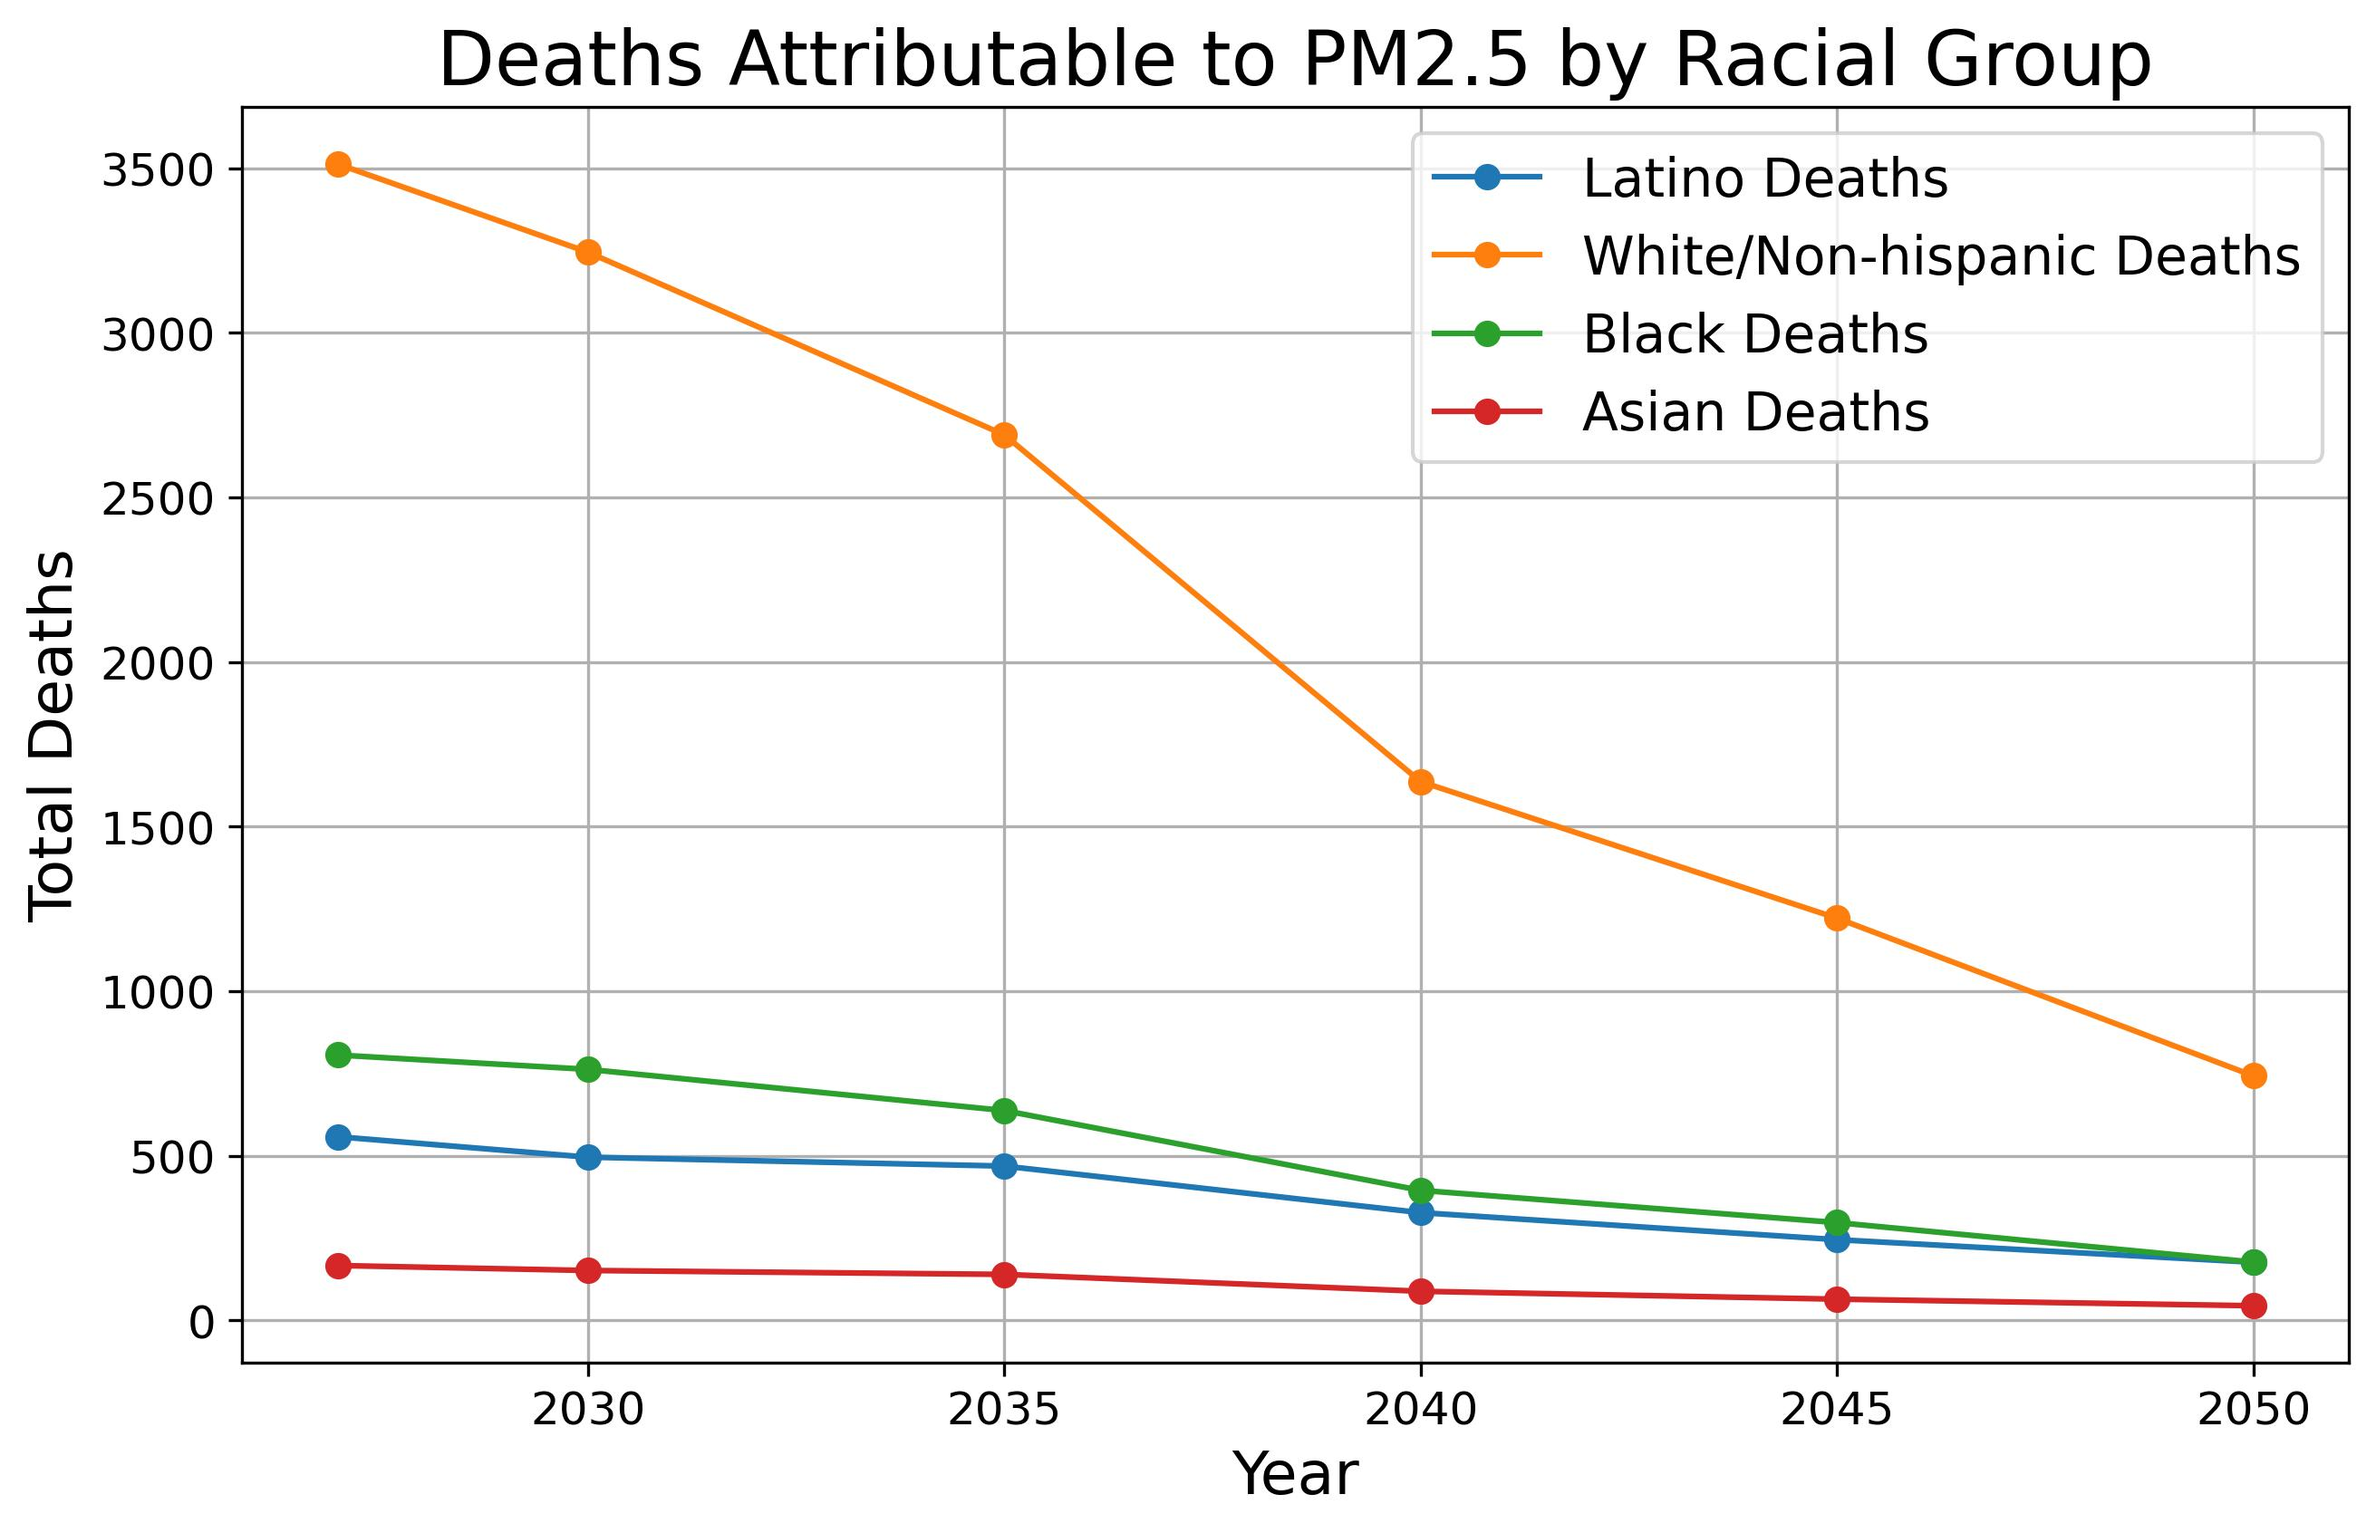
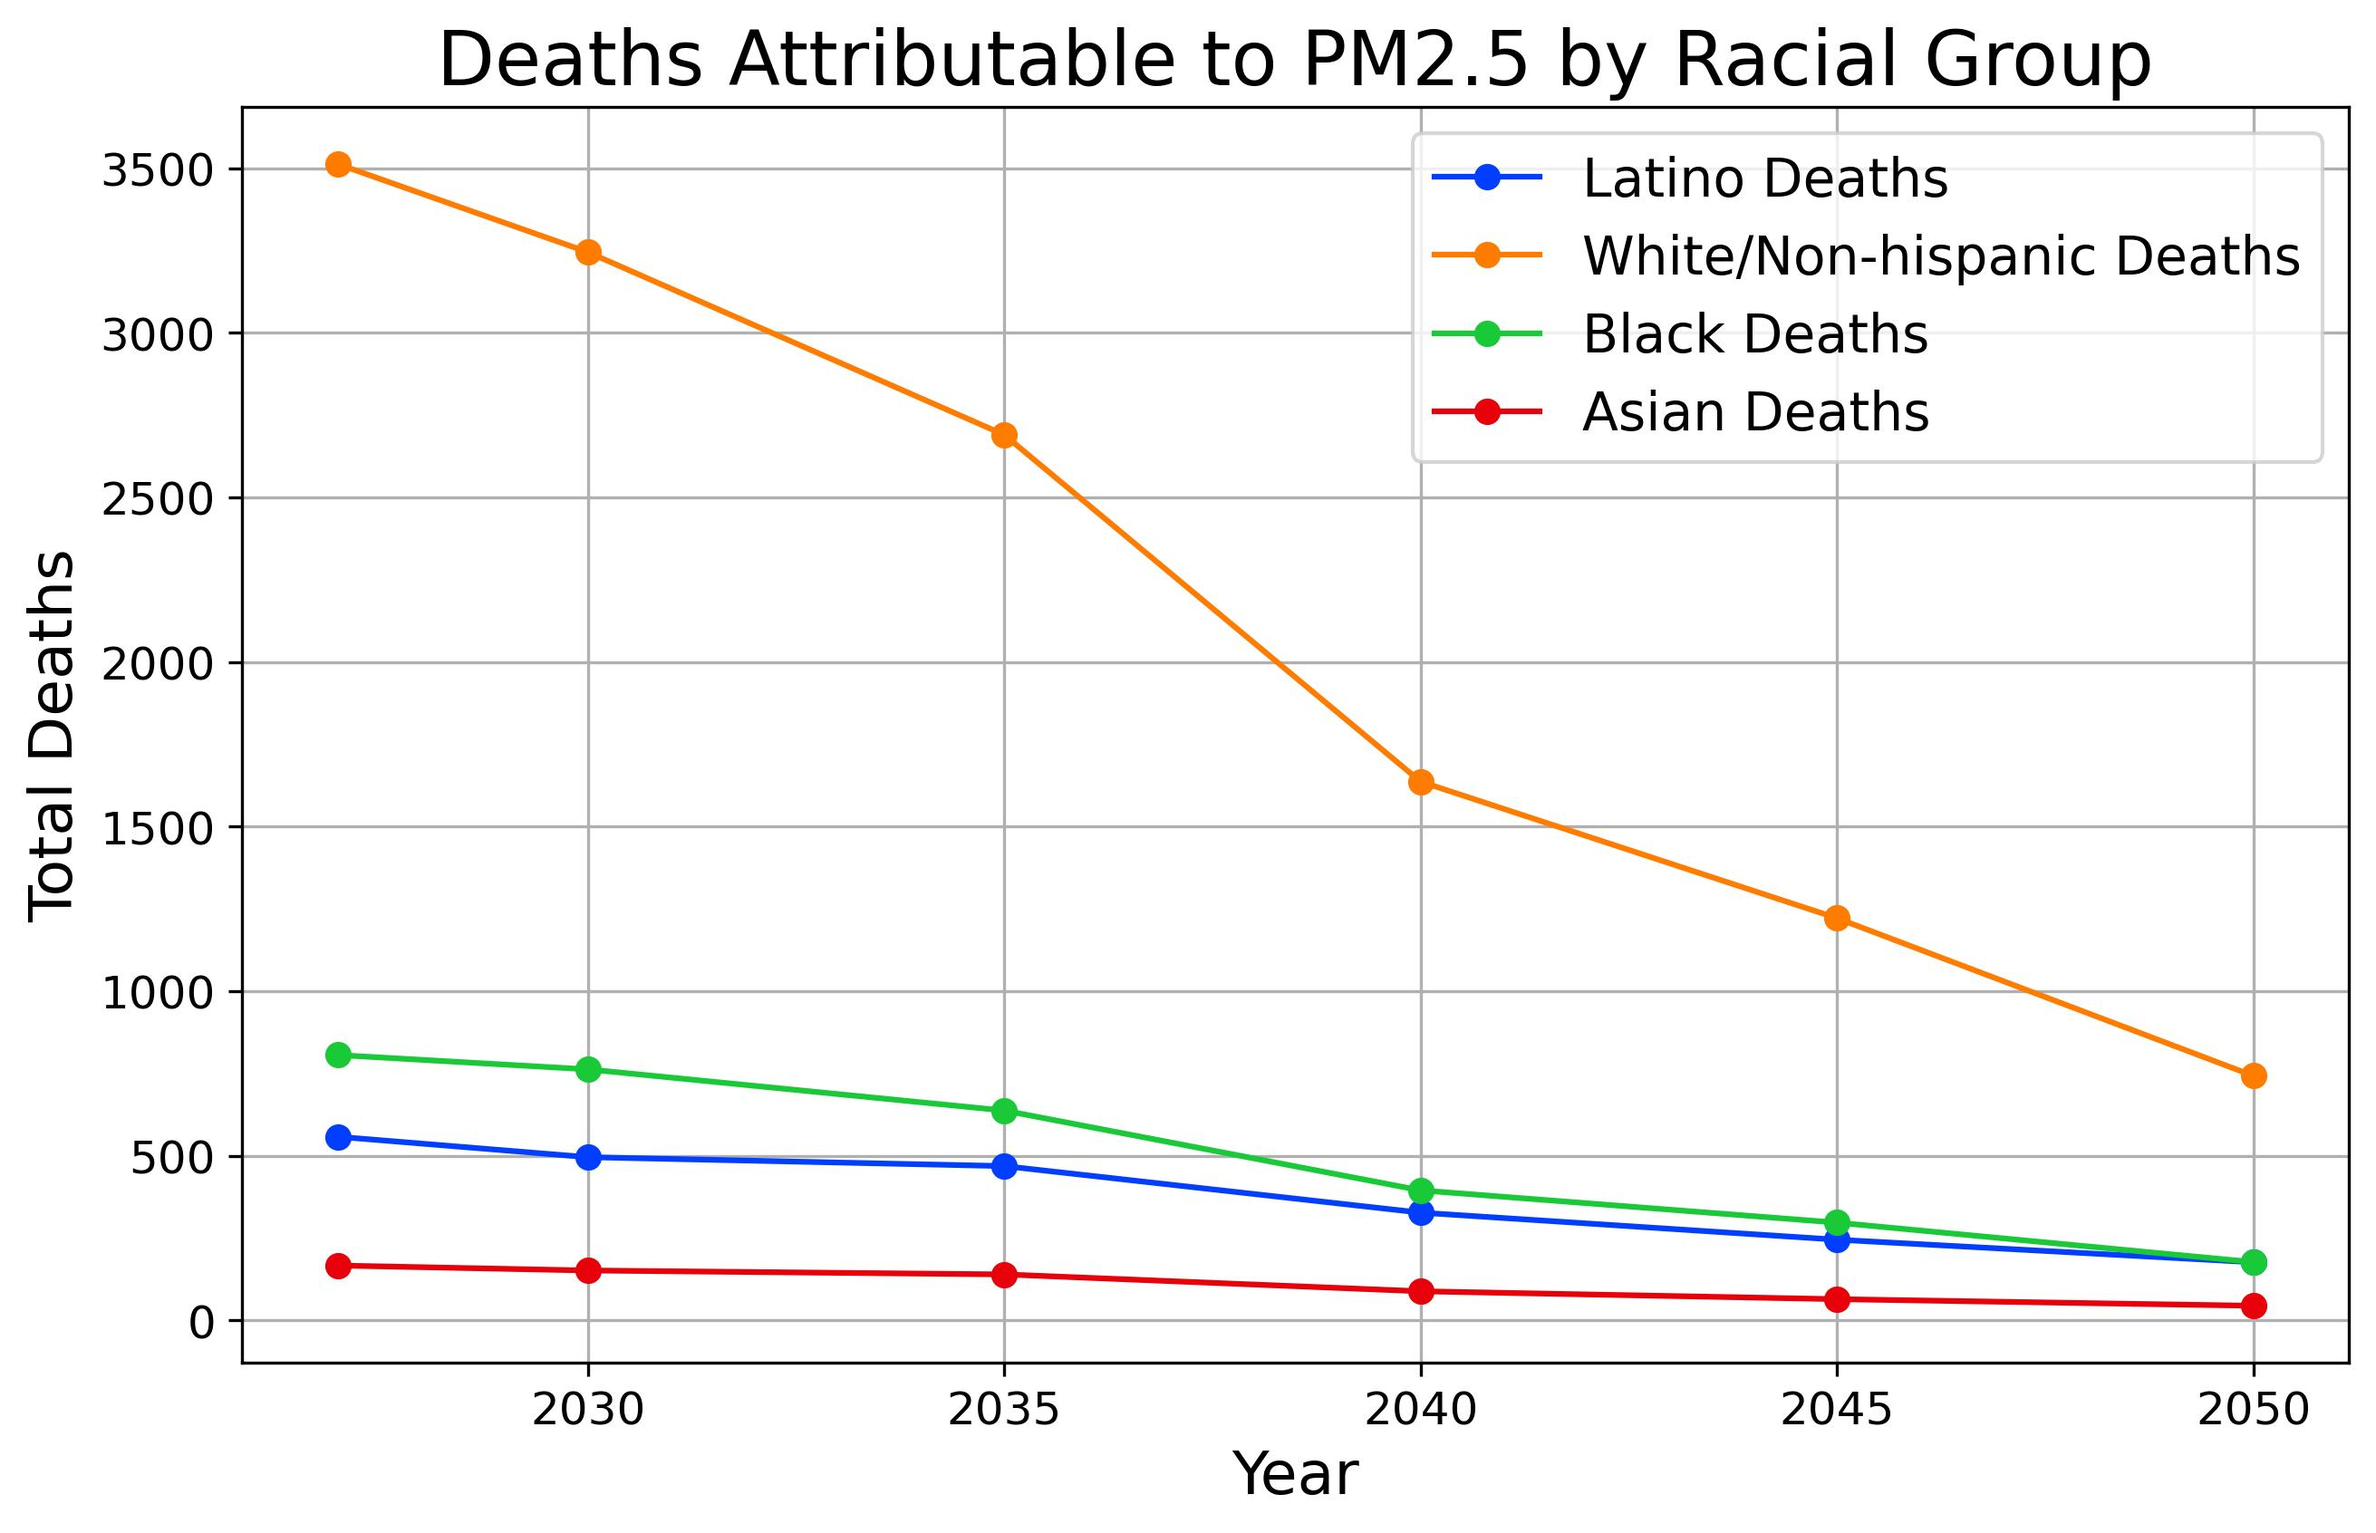
fix lines in plot

diff --git a/Downscaled/Plot_Output_ISRM.py b/Downscaled/Plot_Output_ISRM.py
@@ -26,6 +26,16 @@ data_dict = {}
 states = gpd.read_file('Data/tl_2022_us_state/tl_2022_us_state.shp')
 states = states[~states['STUSPS'].isin(['AS', 'AK', 'GU', 'MP', 'VI', 'HI', 'PR'])]
 
+#keep palette consistent across plots
+palette = sns.color_palette("bright")
+color_mapping = {
+    'Latino': palette[0],       # Red
+    'WhiteNoL_1': palette[1],  # Blue
+    'Black': palette[2],       # Green
+    'Asian': palette[3],       # Purple
+    'Native': palette[4]       # Orange
+}
+
 ## Read in data
 def read_scenario_data(scenario, model, states_gdf):
     result = pd.DataFrame()
@@ -139,10 +149,10 @@ def make_death_timeseries(models, scenarios):
             print('deaths: '+scenario)
 
             # Plot mortality rates
-            plt.plot(deaths['year'], deaths['Latinodeat'], marker='o', label='Latino Deaths')
-            plt.plot(deaths['year'], deaths['WhiteNoL_1'], marker='o', label='White/Non-hispanic Deaths')
-            plt.plot(deaths['year'], deaths['Blackdeath'], marker='o', label='Black Deaths')
-            plt.plot(deaths['year'], deaths['Asiandeath'], marker='o', label='Asian Deaths')
+            plt.plot(deaths['year'], deaths['Latinodeat'], marker='o', label='Latino Deaths', color=color_mapping['Latino'])
+            plt.plot(deaths['year'], deaths['WhiteNoL_1'], marker='o', label='White/Non-hispanic Deaths', color=color_mapping['WhiteNoL_1'])
+            plt.plot(deaths['year'], deaths['Blackdeath'], marker='o', label='Black Deaths', color=color_mapping['Black'])
+            plt.plot(deaths['year'], deaths['Asiandeath'], marker='o', label='Asian Deaths', color=color_mapping['Asian'])
 
             # Add labels and title
             plt.xlabel('Year', fontsize=16)
@@ -385,6 +395,7 @@ for scenario in scenarios:
                     dpi=300, bbox_inches='tight')
 
 
+
 #%%
 #######################################
 #### COMPARE WITH CO2 EMISSIONS #######
@@ -418,7 +429,7 @@ for model in models:
 
 emissions = pd.merge(emissions, scenarios_compare, how='left', left_on=['model', 'planning_year', 'case'], right_on=['model', 'year', 'scenario'])
 emissions['value'] = emissions['value']/1e8
-emissions['planning_year']=emissions['planning_year'].astype(str)
+
 sns.scatterplot(
     data=emissions, 
     x='value', 
@@ -442,6 +453,66 @@ plt.legend(
 # Show the plot
 plt.savefig(f'MIP_AirPollution/Figures/Output/Deaths_vs_Emissions_{model}.png', format='jpg',dpi=300, bbox_inches='tight')
 plt.savefig(f'MIP_AirPollution/Figures/Output/Deaths_vs_Emissions_{model}.png', format='jpg',
+            dpi=300, bbox_inches='tight')
+plt.close()
+
+# Sort data by scenario and planning_year for proper line connections
+emissions = emissions.sort_values(by=['scenario', 'planning_year'])
+lines = []
+for scenario, group in emissions.groupby('scenario'):
+    group = group.sort_values(by='planning_year')
+    for i in range(len(group) - 1):
+        lines.append({
+            'x_start': group.iloc[i]['value'],
+            'y_start': group.iloc[i]['deathsK'],
+            'x_end': group.iloc[i + 1]['value'],
+            'y_end': group.iloc[i + 1]['deathsK'],
+            'scenario': scenario
+        })
+
+        plt.figure(figsize=(10, 6))
+lines_df = pd.DataFrame(lines)
+
+# Overlay lines for adjacent points
+for _, row in lines_df.iterrows():
+    plt.plot(
+        [row['x_start'], row['x_end']],
+        [row['y_start'], row['y_end']],
+        color=sns.color_palette('bright')[list(emissions['scenario'].unique()).index(row['scenario'])],
+        alpha=0.6
+    )
+
+# Add scatter points
+sns.scatterplot(
+    data=emissions,
+    x='value',
+    y='deathsK',
+    hue='scenario',
+    style='planning_year',
+    palette='bright',
+    s=100,  # Size of points
+    alpha=0.9
+)
+
+# Add labels and title
+plt.title('Tracking Changes in X and Y Over Time', fontsize=16)
+plt.xlabel('CO2 Emissions (100 million Tons)', fontsize=14)
+plt.ylabel('Deaths per year', fontsize=14)
+
+# Customize the legend
+plt.legend(
+    title='Scenario',
+    bbox_to_anchor=(1.05, 1),
+    loc='upper left',
+    borderaxespad=0.0
+)
+
+# Tidy up the layout
+plt.tight_layout()
+
+# Show the plot
+plt.savefig(f'MIP_AirPollution/Figures/Output/Deaths_vs_Emissions_withlines_{model}.png', format='jpg',dpi=300, bbox_inches='tight')
+plt.savefig(f'MIP_AirPollution/Figures/Output/Deaths_vs_Emissions_withlines_{model}.png', format='jpg',
             dpi=300, bbox_inches='tight')
 plt.close()
 #######################################
@@ -484,7 +555,7 @@ sns.scatterplot(
     x='Total', 
     y='deathsK', 
     hue='scenario', 
-    palette='Set1',
+    palette='bright',
     alpha=0.9
 )
 
